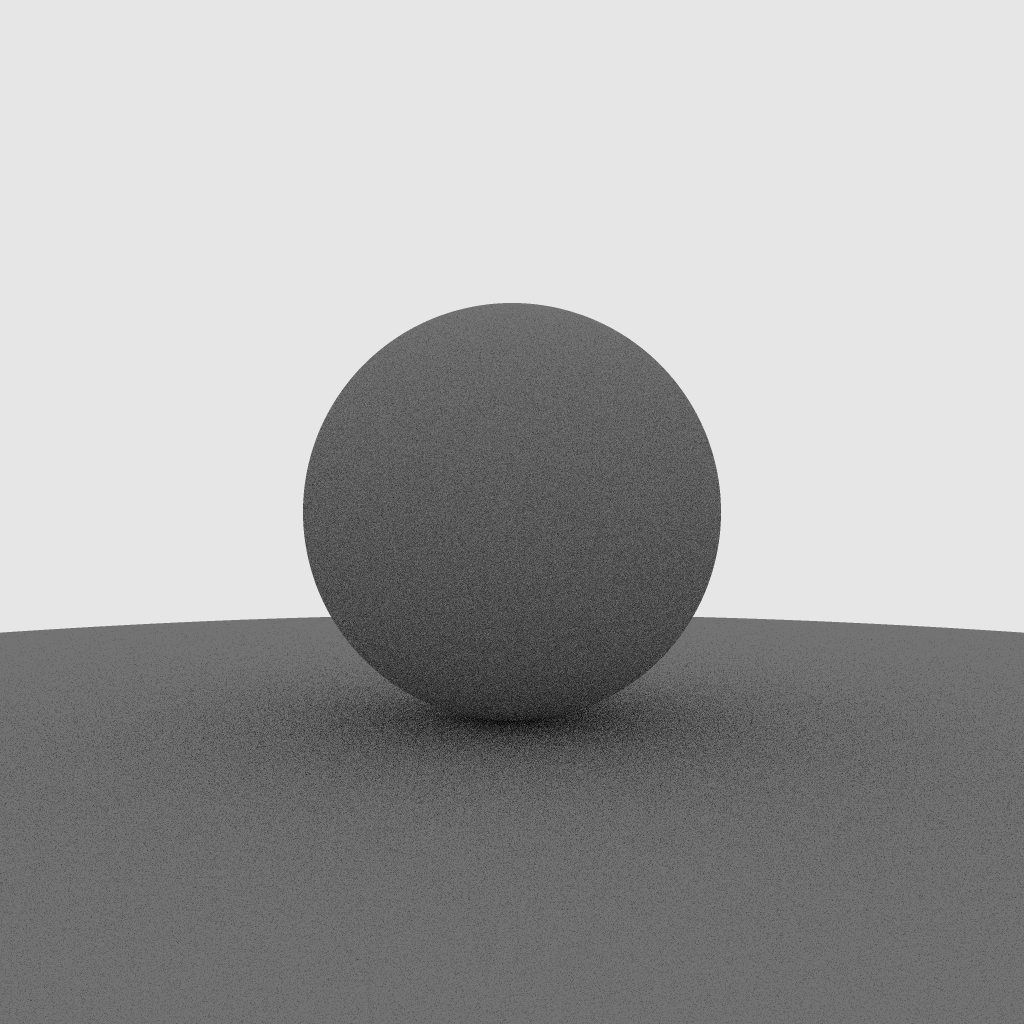
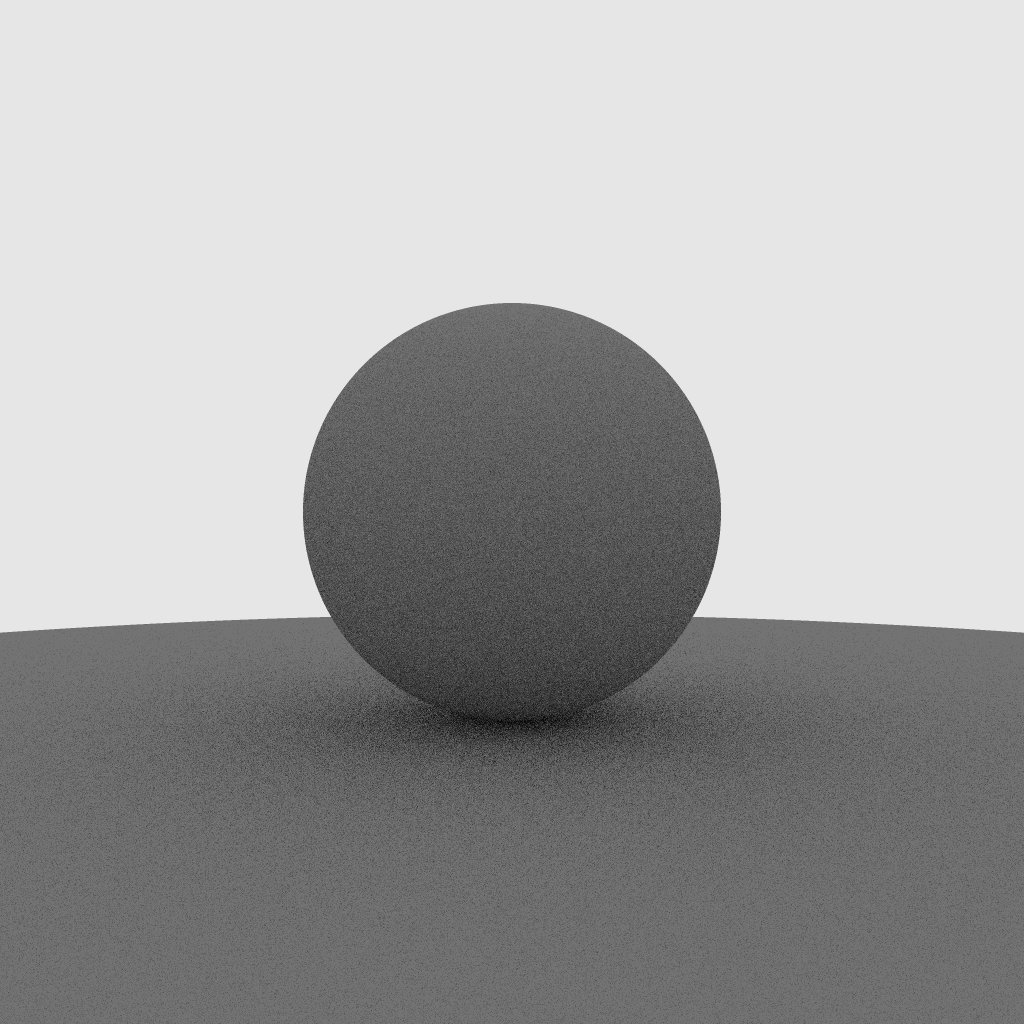
Simple progress indicator

Changed region(s): [[0.1875, 0.4688, 0.8125, 0.7812], [0.5312, 0.4375, 0.5625, 0.4688]]

diff --git a/src/main.rs b/src/main.rs
@@ -1,6 +1,6 @@
 use image::{Rgb32FImage, RgbImage, Rgb, ImageBuffer, buffer::ConvertBuffer, Pixel};
 use rand::Rng;
-use std::ops;
+use std::{ops, io::{self, Write}};
 
 #[derive(Copy, Clone, Debug)]
 struct Vec3(f64, f64, f64);
@@ -183,7 +183,7 @@ impl Geometry {
 }
 const WIDTH: u32 = 1024;
 const HEIGHT: u32 = 1024;
-const PIXEL_SUBDIVISIONS: usize = 3;
+const PIXEL_SUBDIVISIONS: usize = 50;
 
 fn get_color(ray: Ray, depth: u32) -> image::Rgb<f32> {
     if depth == 0 {
@@ -243,7 +243,10 @@ fn main() {
         camera_direction*focal_length
         - camera_right*(viewport_width/2.0)
         + camera_up*(viewport_height/2.0);
-    
+
+    let step = WIDTH*HEIGHT/100;
+    let mut counter = 0;
+
     for x in 0..WIDTH {
         for y in 0..HEIGHT {
             let mut avg_color = [0.0, 0.0, 0.0];
@@ -266,7 +269,12 @@ fn main() {
                 }
             }
             buffer.put_pixel(x, y, Rgb(avg_color));
-            
+            counter += 1;
+            if counter > step {
+                print!(".");
+                io::stdout().flush().unwrap();
+                counter = 0;
+            }
         }
     }
 
